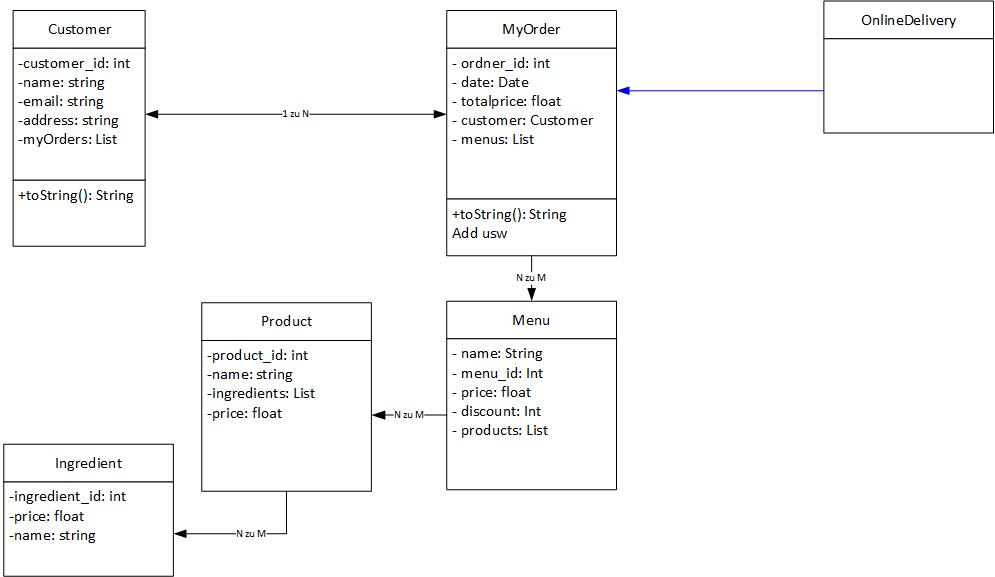
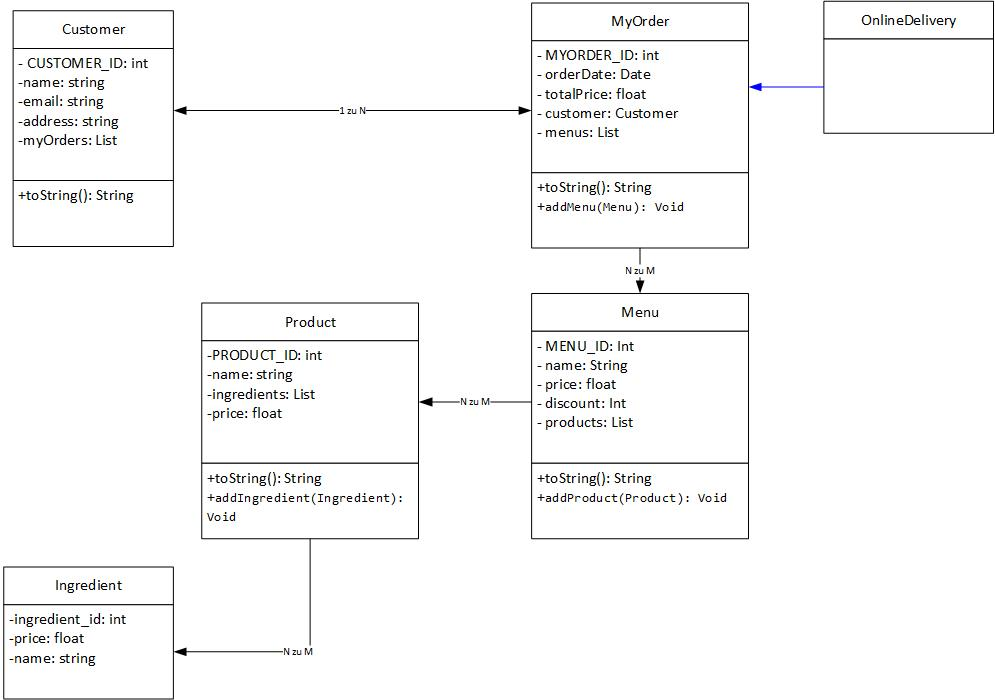
uml angepasst

diff --git a/src/dbt/online/delivery/MyOrder.java b/src/dbt/online/delivery/MyOrder.java
@@ -73,7 +73,7 @@ public class MyOrder extends DBCommunication<MyOrder>{
 	}
 
 	public String toString(){
-		String returnString = "Order-" + this.MYORDER_ID + "->" + this.customer.toString() + "->Date:" + this.orderDate.toString() + "[\n" ;
+		String returnString = "Order-" + this.MYORDER_ID + "->" + this.customer.toString() + "->Date:" + this.orderDate.toString()+ "->Price:" + this.totalPrice + "[\n" ;
 		for(Menu menu : menus){
 			returnString += menu.toString();
 		}
